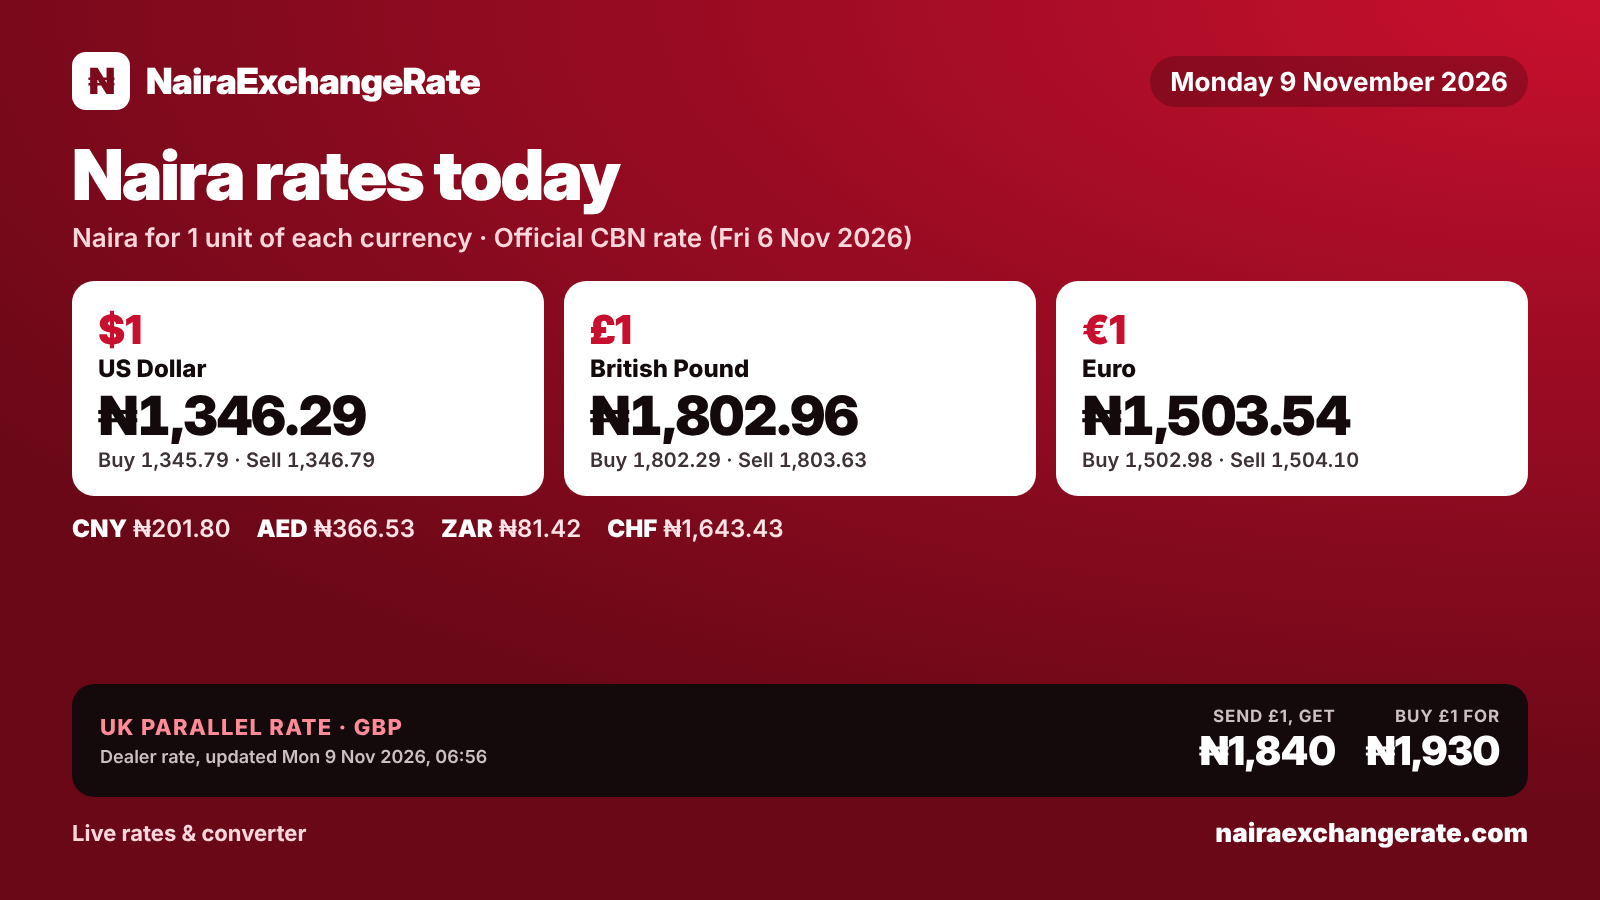
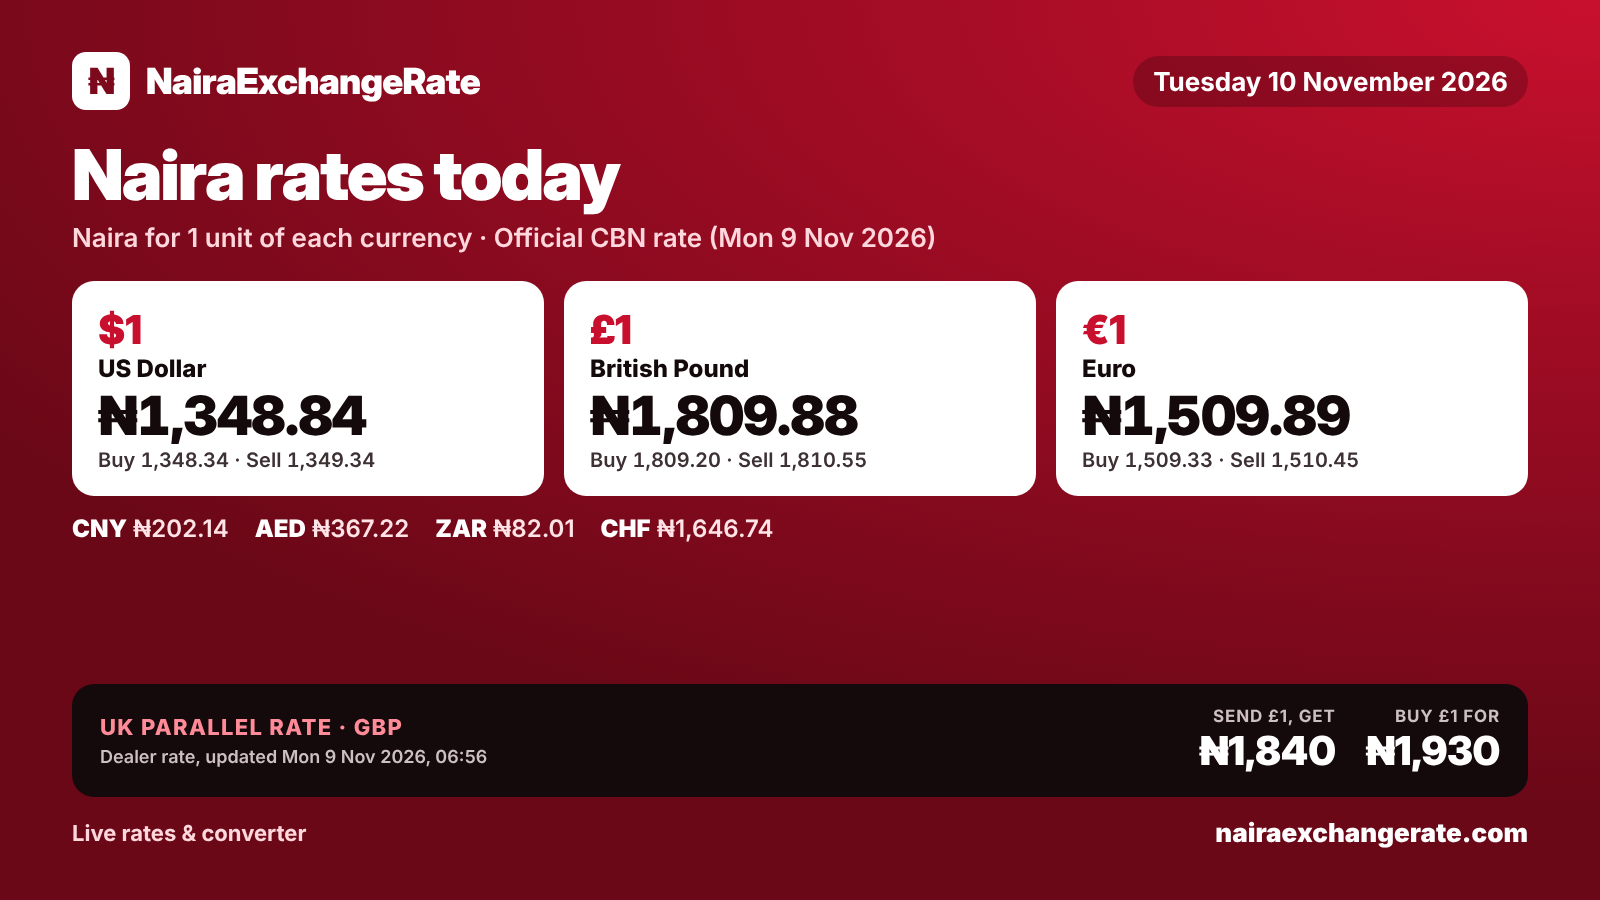
CBN rates 2026-11-09
Claude-Session: https://claude.ai/code/session_01NfXuJvU14aFhUti1J3Jid6

diff --git a/index.html b/index.html
@@ -338,57 +338,57 @@ footer .wrap{padding-block:22px 34px;font-size:.84rem;color:var(--muted);display
     }
   ],
   "cbn": {
-    "date": "2026-11-06",
+    "date": "2026-11-09",
     "rates": {
       "xof": {
-        "buy": 2.287,
-        "middle": 2.297,
-        "sell": 2.307
+        "buy": 2.2715,
+        "middle": 2.2815,
+        "sell": 2.2915
       },
       "cny": {
-        "buy": 201.7229,
-        "middle": 201.7979,
-        "sell": 201.8728
+        "buy": 202.0623,
+        "middle": 202.1372,
+        "sell": 202.2121
       },
       "eur": {
-        "buy": 1502.9833,
-        "middle": 1503.5417,
-        "sell": 1504.1001
+        "buy": 1509.3333,
+        "middle": 1509.893,
+        "sell": 1510.4527
       },
       "jpy": {
-        "buy": 8.4973,
-        "middle": 8.5004,
-        "sell": 8.5036
-      },
-      "sar": {
-        "buy": 358.5248,
-        "middle": 358.658,
-        "sell": 358.7912
+        "buy": 8.5381,
+        "middle": 8.5413,
+        "sell": 8.5445
       },
       "zar": {
-        "buy": 81.3921,
-        "middle": 81.4224,
-        "sell": 81.4526
+        "buy": 81.9765,
+        "middle": 82.0069,
+        "sell": 82.0373
       },
       "chf": {
-        "buy": 1642.8156,
-        "middle": 1643.4259,
-        "sell": 1644.0363
+        "buy": 1646.1254,
+        "middle": 1646.7358,
+        "sell": 1647.3462
       },
       "gbp": {
-        "buy": 1802.288,
-        "middle": 1802.9576,
-        "sell": 1803.6272
+        "buy": 1809.2044,
+        "middle": 1809.8753,
+        "sell": 1810.5462
       },
       "usd": {
-        "buy": 1345.7945,
-        "middle": 1346.2945,
-        "sell": 1346.7945
+        "buy": 1348.3413,
+        "middle": 1348.8413,
+        "sell": 1349.3413
+      },
+      "sar": {
+        "buy": 359.1937,
+        "middle": 359.3269,
+        "sell": 359.4601
       },
       "aed": {
-        "buy": 366.392,
-        "middle": 366.5281,
-        "sell": 366.6643
+        "buy": 367.0854,
+        "middle": 367.2215,
+        "sell": 367.3576
       }
     }
   },
